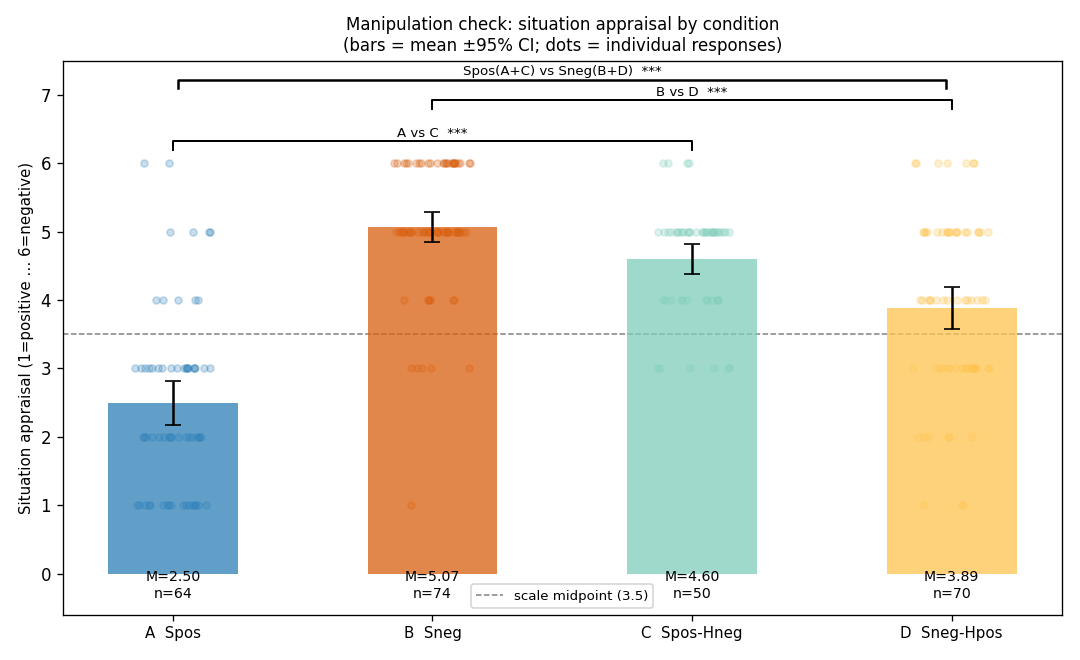
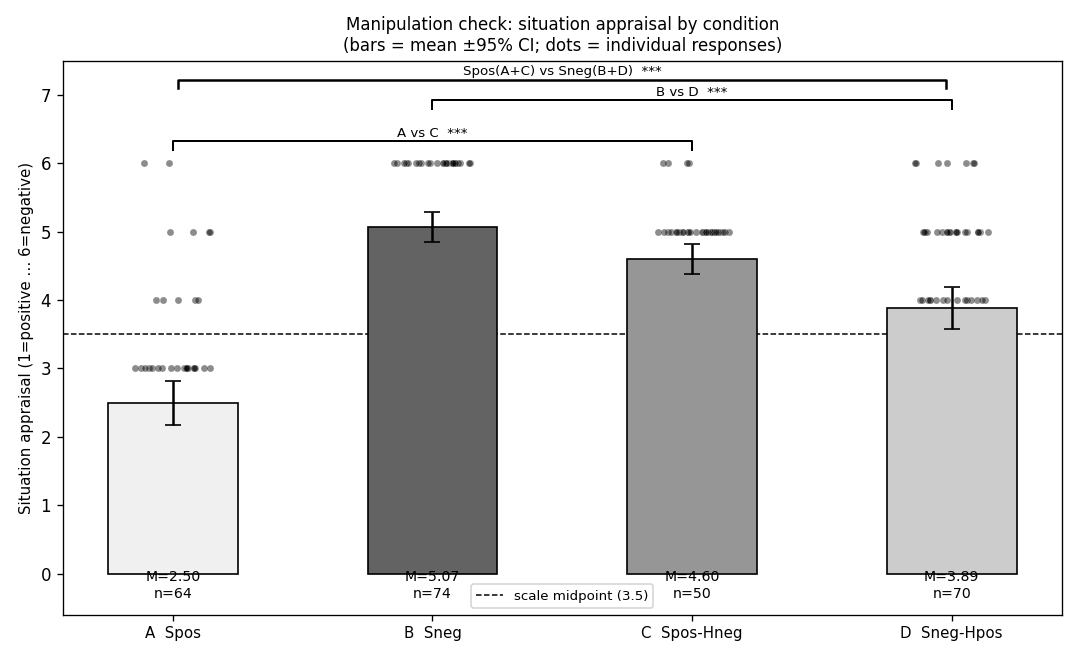
Recolor manipulation check figure to greyscale only
Bars use four shades of grey (light=positive ... dark=negative) with
black edges; black error bars, brackets, and midpoint line; black/white
individual dots. No color.

https://claude.ai/code/session_01GJjxtfLA6vkY6yB1S6YDKA

diff --git a/analysis/manipulation_check.py b/analysis/manipulation_check.py
@@ -221,7 +221,8 @@ Potential concern:
 """)
 
 # ===================================================================== FIGURE
-COLORS = {"A_Spos":"#2c7fb8","B_Sneg":"#d95f0e","C_Spos-Hneg":"#7fcdbb","D_Sneg-Hpos":"#fec44f"}
+# Greyscale only: lighter = more positive condition, darker = more negative.
+COLORS = {"A_Spos":"#f0f0f0","D_Sneg-Hpos":"#cccccc","C_Spos-Hneg":"#969696","B_Sneg":"#636363"}
 short  = {"A_Spos":"A  Spos","B_Sneg":"B  Sneg","C_Spos-Hneg":"C  Spos-Hneg","D_Sneg-Hpos":"D  Sneg-Hpos"}
 
 fig, ax = plt.subplots(figsize=(9, 5.5))
@@ -229,15 +230,16 @@ fig, ax = plt.subplots(figsize=(9, 5.5))
 for i, c in enumerate(CONDS):
     g = grps[c]
     ci = 1.96 * g.std(ddof=1) / np.sqrt(len(g))
-    # jittered individual points
+    # jittered individual points (white-edged black dots stay visible on any grey)
     jit = np.random.default_rng(42).uniform(-0.15, 0.15, len(g))
-    ax.scatter(i + jit, g, alpha=0.25, s=18, color=COLORS[c], zorder=2)
+    ax.scatter(i + jit, g, alpha=0.45, s=18, color="black",
+               edgecolors="white", linewidths=0.3, zorder=2)
     # mean + CI bar
-    ax.bar(i, g.mean(), color=COLORS[c], alpha=0.75, zorder=3, width=0.5)
+    ax.bar(i, g.mean(), color=COLORS[c], edgecolor="black", lw=1.0, zorder=3, width=0.5)
     ax.errorbar(i, g.mean(), yerr=ci, fmt="none", color="black", capsize=5, lw=1.5, zorder=4)
     ax.text(i, -0.35, f"M={g.mean():.2f}\nn={len(g)}", ha="center", fontsize=8.5)
 
-ax.axhline(SCALE_MID, ls="--", color="grey", lw=0.9, label="scale midpoint (3.5)")
+ax.axhline(SCALE_MID, ls="--", color="black", lw=0.9, label="scale midpoint (3.5)")
 ax.set_xticks(range(4))
 ax.set_xticklabels([short[c] for c in CONDS], fontsize=9)
 ax.set_ylabel("Situation appraisal (1=positive … 6=negative)", fontsize=9)
